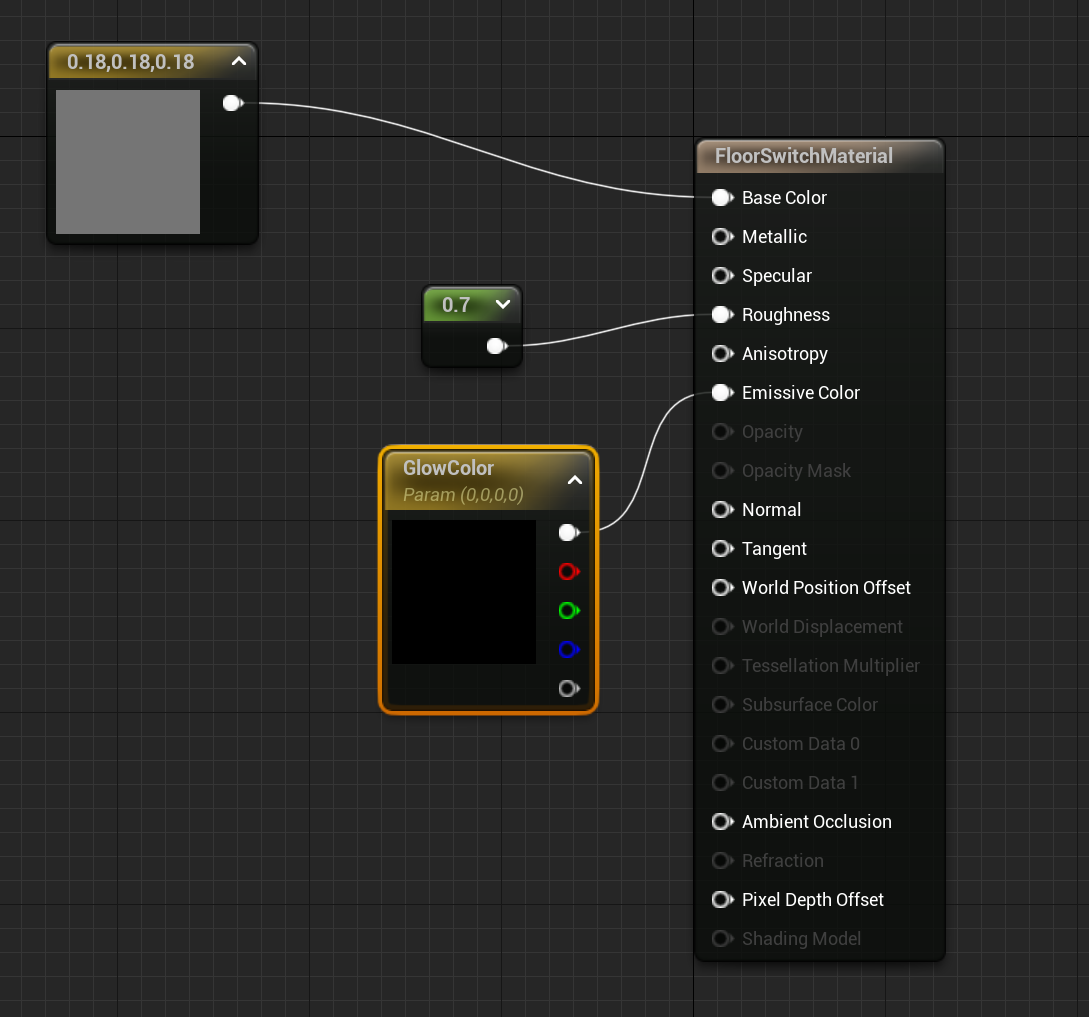
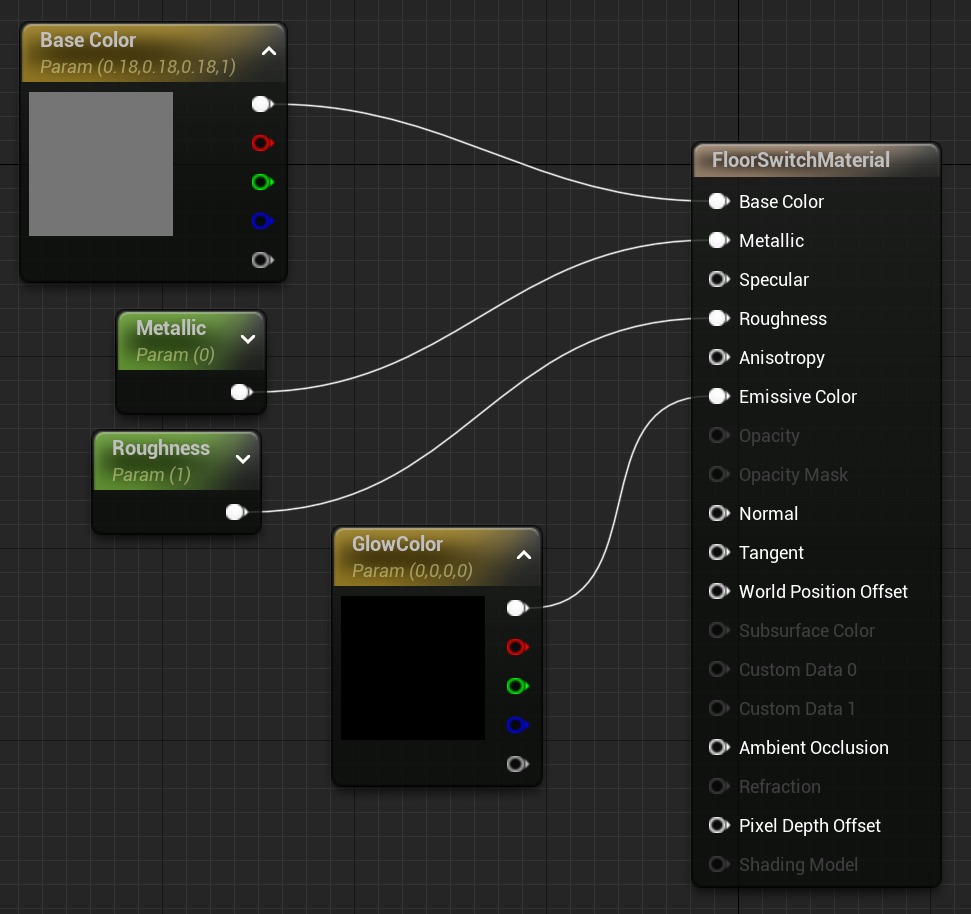
Done with Assignment 2

diff --git a/02-02.md b/02-02.md
@@ -37,7 +37,7 @@ Members:
 
 Functions:
 
-- `SetOutputActive` - (`UFUNCTION` that's `BlueprintCallable`) - is `virtual` and takes in a `bool` specifying the new value of `bIsOutputActive`. Since this is a blueprint function, you should use the special comment syntax 
+- `SetOutputActive` - (`UFUNCTION` that's `BlueprintCallable`) - is `virtual`, returns `void` and takes in a `bool` specifying a new value for `bIsOutputActive`. Since this is a blueprint function, you should use the special comment syntax 
 - `NativeReceiveInput` - (***not*** a `UFUNCTION`) a `virtual` function that returns `void`, and takes in two parameters: an `AActor` pointer (just a raw pointer) that specifies which actor is sending the incoming value, and a `bool` specifying the incoming value
 - `PuzzleReset` - (`UFUNCTION` that's `BlueprintCallable`) a `virtual` function that returns `void` and takes no parameters
 
@@ -45,13 +45,13 @@ Functions:
 
 This function should immediately return if the new value is the same as the old one.
 
-If it's a new value, you have to set `bIsOutputActive` to the new value. Next you need to try to resolve the `OutputActor` soft object pointer with `Get()`. If it works, you can use the `FindComponentByClass` template function to get a pointer to the `PuzzleComponent`, which would roughly look like this (assuming you resolved `OutputActor` to `OutActor`):
+If it's a new value, you have to set `bIsOutputActive` to the new value. Next you need to try to resolve the `OutputActor` soft object pointer with `Get()`. If it works, you can use the `FindComponentByClass` template function to get a pointer to the `PuzzleComponent` for the output actor, which would roughly look like this (assuming you resolved `OutputActor` to `OutActor`):
 
 ```c++
 UPuzzleComponent* PuzzleComp = OutActor->FindComponentByClass<UPuzzleComponent>();
 ```
 
-Remember it's possible PuzzleComp is null, in which case you can't do anything with it. But if it's not null, you'll want to call `NativeReceiveInput` on **_that_** puzzle component, passing in `GetOwner()` as the actor sending the input, and whatever the new value of `bIsOuputActive` is. This is how `this` PuzzleComponent notifies the other actor's PuzzleComponent about a new value.
+Remember it's possible `PuzzleComp` is `nullptr`, in which case you can't do anything with it. But if it's not null, you'll want to call `NativeReceiveInput` on **_the output actor's_** puzzle component, passing in `GetOwner()` as the actor sending the input, and whatever the new value of `bIsOuputActive` is. This is how this actor's PuzzleComponent notifies the other actor's PuzzleComponent about a new value.
 
 ### NativeReceiveInput Implementation
 
@@ -63,9 +63,9 @@ For now, this will simply call `SetOutputActive`, passing in `false`.
 
 ### Adding Some Delegates
 
-It turned out that to simplify the process by which actors can hook into their puzzle components, we need to use delegates. `BlueprintImplementableEvent` really isn't designed for this particular use case (it's better in a script for an is-a relationship, as opposed to our has-a situation). To solve this, we'll need to use delegates as discussed in lecture.
+To simplify the process by which actors can hook into their puzzle components, we need to use delegates. `BlueprintImplementableEvent` really isn't designed for this particular use case (it's better for an is-a relationship, as opposed to our has-a situation). To solve this, we'll need to use delegates as discussed in lecture.
 
-First, in the PuzzleComponent.h header, you have to add declarations of the two delegate types. This should go before the declaration of `UPuzzleComponent`, but after the includes:
+First, in the `PuzzleComponent.h` header, you have to add declarations of the two delegate types. This should go before the declaration of `UPuzzleComponent`, but after the includes:
 
 ```c++
 DECLARE_DYNAMIC_MULTICAST_DELEGATE_TwoParams(FPuzzleComponentOnReceiveInput, class AActor*, InputActor, bool, bValue);
@@ -87,7 +87,7 @@ Now let's broadcast to these delegates in the correct spots.
 In `NativeReceiveInput` add the following line to trigger the `OnReceiveInput` delegate:
 
 ```c++
-OnReceiveInput.Broadcast(InputActor, bValue);
+OnReceiveInput.Broadcast(InputActor, bIncomingValue);
 ```
 
 Similarly, at the end of `PuzzleReset` add a Broadcast to `OnPuzzleReset` (except that one has no parameters).
@@ -96,7 +96,7 @@ We'll see how to hook up to these in a blueprint a bit later.
 
 ## Setting Up a Puzzle Floor Switch
 
-Open up the Content Drawer, and make a new folder under Blueprints called Puzzles.
+Open up the Content Drawer, and make a new folder under "Blueprints" called "Puzzles."
 
 Create a new blueprint named `PuzzleFloorSwitch_BP` which inherits from `TriggerBoxPlayer_BP`.
 
@@ -106,7 +106,12 @@ Now we want to add a Static Mesh component. To add components, click the add but
 
 ![Add Static Mesh](images/02/addsm.png)
 
-In the StaticMesh details, Set the "Static Mesh" to `1M_Cube`, which is a 1mx1m cube. Set the Z-scale to `0.05`.
+In the StaticMesh details:
+
+* Set the "Static Mesh" to `SM_Cube`, which is a 1m x 1m x 1m cube
+* Set the z-scale to `0.05`.
+* Set the x and y location to `-50`
+* Change Materials>Element 0 to MI_Solid
 
 The switch should look like this in the blueprint viewport:
 
@@ -118,31 +123,20 @@ To fix this, in the blueprint details for `PuzzleFloorSwitch_BP` itself, uncheck
 
 To hide the Collision Component, go to its details in the blueprint and change "Hidden in Game" to true. To hide the sprite component, you need to go back to the root properties of `PuzzleFloorSwitch_BP` and set "Editor Billboard Scale" to 0. The billboard only shows up in editor builds, but we don't need it for the puzzle floor switch anymore as we now have a visible mesh.
 
-Now when you run the game, you should see the trigger in the level as you might expect. The shadows might not look quite correct, though. This is because we're using static lighting and so we need to build lighting for us to be able to see the correct shadows. Save your files first (just use Save All), and then exit the editor.
-
-Now in Visual Studio, change your configuration to "Development Editor". Then in the solution explorer under Programs, right click on the UnrealLightmass project and select "Build" (this will finish quickly as it's only a handful of files). Unreal Lightmass is what builds static lighting.
-
-{: .info }
-Many games (especially open world games) use fully-dynamic lighting in which case you'd never need to build lighting, and it's possible to globally disable Light Mass builds in that case. It's likely that many Unreal 5 games will ultimately go a fully dynamic lighting route, in which case lighting builds will be dead forever. I won't miss them.
-
-Once the build finishes, you can switch back to "DebugGame Editor." Now launch Unreal again.
-
-In the editor, do Build>Build All Levels. This will build the lighting as well as a few other things like navigation meshes. This will finish after a couple of seconds. Then do File>Save All.
-
-Your trigger in the level should now look something like this:
+Now when you run the game, you should see the trigger in the level as you might expect. It will look similar to this:
 
 ![Floor Switch in Level](images/02/trigger2.png)
 
-Now let's make it so the trigger glows when the player overlaps with it. In the Content Drawer go to Geometry>Meshes. Right click and duplicate `CubeMaterial`, calling the copy `FloorSwitchMaterial`. Open up your new material. Drag off the Emissive Color pin to create a VectorParameter called "GlowColor", keeping it the default value of all zeroes:
+Now let's make it so the trigger glows when the player overlaps with it. In the Content Drawer go to Content>LevelPrototyping>Materials. Right click and duplicate `M_Solid`, calling the copy `FloorSwitchMaterial`. Open up your new material. Drag off the Emissive Color pin to create a VectorParameter called "GlowColor", keeping it the default value of all zeroes:
 
-![Material for switch](images/02/switchmaterial.png)
+<img src="images/02/switchmaterial.png" alt="Material for switch" style="zoom:67%;" />
 
-{: .info }
+{: .note }
 Compared to the material we saw in the video for the character, this is a more explicit way of authoring materials where you can directly see your potential outputs. Emissive is what adds a glow effect, to signify that the material is "emitting" a color as opposed to the being a property of the surface, like base color or roughness.
 
-Now in PuzzleFloorSwitch_BP, change the Material assigned to the static mesh to your new material. Then override the OnPlayerBegin/EndOverlap functions so it sets it the GlowColor red when it overlaps, and back to black when it does not.
+Now in `PuzzleFloorSwitch_BP`, change the Material assigned to the static mesh to your new material. Then override the "On Player Begin Overlap" and "On Player End Overlap" Blueprint functions. You can drag the Static Mesh Component onto the blueprint graph and set the `GlowColor` vector parameter to red when it overlaps, and back to black when it does not. (If you don't remember how to do this, check the flipped classroom video).
 
-Running the game, if you walk on and off the trigger, you should see it glow like this:
+Running the game, if you walk on and off the trigger, you should see it glow like this (again, your graphics will look slightly different than in the GIF):
 
 ![Switch glowing red](images/02/glow.gif)
 
@@ -154,7 +148,7 @@ If you run the game, it will still look the same as you haven't hooked up the pu
 
 In the Puzzles folder, create a new BP called `PuzzleLight_BP` that inherits from PointLight. Set the properties of the Point Light Component so the "Light Color" is blue, and "Visible" is false (because by default, it's not activated yet so we don't want it to be visible).
 
-Next, add a PuzzleComponent to PuzzleLight_BP.
+Next, add a PuzzleComponent to `PuzzleLight_BP`.
 
 Now it's time to use that delegate we setup in code. In the blueprint component list, make sure Puzzle is selected. On the Details pane, look under events and you'll see a big green + button next to "On Receive Input":
 
@@ -176,7 +170,7 @@ Right now our switch is disabled when we step off of it, so it's like a pressure
 
 Also, we'd like to make switches be able to glow in different colors than just red.
 
-To do this, we can add two variables to PuzzleFloorSwitch_BP:
+To do this, we can add two variables to `PuzzleFloorSwitch_BP`:
 
 - A Boolean that says if the switch is disabled when step off of it (set to true by default)
 - A Linear Color that sets the color when you step on the switch (set to a Red color by default)
@@ -186,11 +180,19 @@ Make sure both of these variables are set to "Instance Editable," which is what 
 Now in the blueprint script:
 
 1. In Begin Overlap, change it so you use your color variable instead of the hardcoded one (you don't have to do anything to convert it, just dragging the Linear Color to the vector will automatically use a conversion node)
-2. In End Overlap, only reset the color and set the output to false your "disable when step off" bool is true
+2. In End Overlap, use a "Branch" node to only reset the color and set the output to false your "disable when step off" bool is true
 
 Now place a second PuzzleFloorSwitch in the level, in the vicinity of the first switch. In its properties, make the glow color green and set the "disable when step off" bool to false. Verify that this new switch works as you expect, and your old switch still works the same.
 
-Finally, move the "Top Down Template" TextRenderActor in the level to be near your switches and change the text to say "Original". We'll be using text render actors to help identify the switches in your video.
+Now you want to add a Text Render Actor to the level. To do this, click the add button and select "Place Actors Panel." From here, type text to find "Text Render Actor" and drag one into the level near your switches.
+
+Set the parameters are follows:
+
+* Set the text to "Original"
+* Set the scale uniformly to `3.0`
+* If your text is facing backwards, rotate it to face the correct direction (for me, I had to rotate -180 degrees on the z-axis)
+
+We'll be using these text render actors to help identify the switches in your video.
 
 ## Adding PuzzleAND
 
@@ -200,17 +202,17 @@ In the Puzzles folder, create a new blueprint that just inherits from Actor, and
 
 The way we're going to handle tracking the input actors is with an array of soft object Actor references that correspond to the actors which are required to trigger the puzzle.
 
-First, create a variable called RequiredPuzzles and make it an Actor Soft Object Reference and Instance Editable. Then, click the blue circle to the right of "Variable Type" and select "Array" from the dropdown:
+First, create a variable called `RequiredPuzzles` and make it an Actor Soft Object Reference and Instance Editable. Then, click the blue circle to the right of "Variable Type" and select "Array" from the dropdown:
 
 ![RequiredPuzzles array](images/02/requiredpuzzles.png)
 
-Then add an integer called InputCount which is initialized to zero.
+Then add an integer (just a single one, not an array) called `InputCount` which is initialized to zero. This doesn't need to be instance editable.
 
-Then, in the blueprint script, add the following logic:
+Then, in the Blueprint script for the OnReceiveInput event, add the following logic:
 
-1. When you receive input you first should confirm the actor is in the RequiredPuzzles array (there's a `Contains`) function
-2. If it is in the array, then your either increment or decrement InputCount based on whether value is true or false
-3. Finally, you set the output of the PuzzleComponent (for this AND node) to either true or false depending on the count -- if the count is equal to the `Length` of RequiredPuzzles, then the output should be true, otherwise false
+1. When you receive input you first should confirm the actor is in the `RequiredPuzzles` array (there's a `Contains`) function
+2. If it is in the array, then your either increment or decrement `InputCount` based on whether value is true or false
+3. Finally, you set the output of the PuzzleComponent (for this AND node) to either true or false depending on the count -- if the count is equal to the `Length` of RequiredPuzzles, then the output should be true, otherwise false. You want to use the BlueprintCallable `SetOutputActive` function for this.
 
 ## Testing PuzzleAND
 
@@ -223,7 +225,7 @@ Add another TextRenderActor that says "AND" near these two switches (you can jus
 
 Now place a PuzzleLight near these two switches, as well as a PuzzleAND.
 
-Hook it up so these two new switches send their output to the PuzzleAND, and the PuzzleAND sends its output to the light. Then in the PuzzleAND's required puzzles, add two elements that point to the two switches.
+Hook it up so these two new switches send their output to the PuzzleAND, and the PuzzleAND sends its output to the light. Then for the PuzzleAND instance's `RequiredPuzzles`, add two elements that point to the two switches.
 
 If everything is setup properly, you should get behavior that looks something like this:
 
@@ -251,7 +253,7 @@ For complex puzzles, it would be nice to be able to visualize the flow of inputs
 
    This first verifies that the `ENABLE_DRAW_DEBUG` is true. Next it uses a `DrawDebug` function to draw an arrow between the owner of the PuzzleComponent and the output actor.
 
-4. In TopDownHUD.cpp, add also add an include for `"DrawDebugHelpers.h"`
+4. In TopDownHUD.cpp, add includes for `"DrawDebugHelpers.h"` and `"PuzzleComponent.h"`
 
 5. At the end of `DrawHUD`, add the following:
 
@@ -264,7 +266,10 @@ For complex puzzles, it would be nice to be able to visualize the flow of inputs
    #endif
    ```
 
-   This will iterate over all the `UPuzzleComponent`s in the world and call `DebugDrawOuput` on each. This is not particularly efficient but it's okay for our debug purposes for now!
+
+
+{:.note}
+This code you added to TopDownHUD iterates over all the `UPuzzleComponent`s in the world and call `DebugDrawOuput` on each. This is not particularly efficient but it's okay for our debug purposes for now!
 
 If you did this properly, now when you run you should see arrows between your puzzle components, which helps more clearly visualize the flow. For example, this diagram clearly shows the state of this part of the puzzle:
 

diff --git a/02-03.md b/02-03.md
@@ -12,24 +12,38 @@ For this final part, there are no detailed instructions. Instead, you need to im
 
 # PuzzleOR
 
-This first one isn't too crazy. Make a PuzzleOR which activates as long as any of the inputs are true. This should generically work on any number of elements, not just necessarily two.
+This first one isn't too crazy. Make a `PuzzleOR_BP` which activates as long as any of the inputs are true. This should generically work on any number of elements, not just necessarily two.
 
 Then, place some switches and a light in your level (separate from the others) that demonstrates the PuzzleOR working. Add a TextRenderActor nearby that says "OR".
+
+*Hint*: The easiest way to do this is to duplicate `PuzzleAND_BP` and you just need to make a slight modification to its Blueprint logic.
 
 # SequencePuzzle
 
 This one is a bit more complicated.
 
-You need to make a puzzle that requires that you activate puzzle inputs in a specific order.
+You need to make a puzzle in `SequencePuzzle_BP` that requires that you activate puzzle inputs in a specific order.
 
-The SequencePuzzle needs to verify that all puzzle inputs become true in the expected order. If the inputs come out of order, SequencePuzzle should call `PuzzleReset` on each puzzle element that's part of the sequence. This will reset all the puzzle elements back to their false state. *Hint*: In Blueprint, you can use "Get Component by Class" to get a component of a specific type from an Actor.
+The SequencePuzzle needs to verify that all puzzle inputs become true in the expected order. If the inputs come out of order, SequencePuzzle should call `PuzzleReset` on each puzzle element that's part of the sequence. This will reset all the puzzle elements back to their false state.
+
+*Hint*: Think about how you'd do this with an array in C++. You can do the same thing with an array in Blueprint.
+
+*Hint 2*: In Blueprint, remember you have to resolve soft object references to the actual actor. Then, you can use "Get Component by Class" to get a component of a specific type from an Actor.
+
+{: .danger}
+If you try to compare a Actor Soft Object Reference to an Actor, it will crash the engine when trying to compile the Blueprint. You need to first resolve the Soft Object Reference.
 
 Only once the sequence is completed in the correct order, SequencePuzzle will set its output to true.
 
-To demonstrate this functionality, will add a puzzle with three switches that have GlowColors of red, white, in blue. These switches should not be disabled when the player steps off them. The correct order to press the switches is red, then white, then blue. Once the player completes the sequence properly, activate a light near the puzzle. *Hint*: To get the floor switches to reset their GlowColor if the SequencePuzzle calls `PuzzleReset`, you will have to add a handler to the "On Puzzle Reset" delegate in the floor switch blueprint.
+To demonstrate this functionality, add a puzzle with three switches that have GlowColors of red, white, in blue. These switches should not be disabled when the player steps off them. The correct order to press the switches is red, then white, then blue. Once the player completes the sequence properly, activate a light near the puzzle.
+
+*Hint*: To get the floor switches to reset their `GlowColor` if the SequencePuzzle calls `PuzzleReset`, you will have to add a handler to the "On Puzzle Reset" delegate in the floor switch blueprint.
 
 SequencePuzzle should generically work on any number of elements in a sequence. It should not be hard-coded to only work with a sequence of size three.
 
 Finally, add a TextRenderActor nearby that says "Sequence".
+
+{: .note}
+It's expected that if you step on the blue or white switch before stepping on the red one, no switch will light up as the puzzles will instantly reset.
 
 Once you've completed both PuzzleOr and SequencePuzzle, you're ready to [submit](02-04.html).

diff --git a/02-04.md b/02-04.md
@@ -10,7 +10,10 @@ nav_order: 4
 
 For this assignment, put your files in the `02` folder on your Google Drive. You need to submit the following:
 
-1. Your video - Make sure it still has the watermark. Show the WASD movement and the spacebar to jump. It should clearly demonstrate the functionality of the puzzle areas (along with the text actors) for Original, AND, OR and Sequence. Don't just immediately solve every puzzle. Make it clear that the switches that should reset when you step off do reset, and fail the sequence puzzle at least once. 
+1. One or more videos that demonstrate the following (make sure you still have the watermark)
+   1. Show the WASD movement and the spacebar to jump.
+   2. Clearly demonstrate the functionality of the puzzle areas (along with the text actors) for Original, AND, OR and Sequence. Don't just immediately solve every puzzle. Make it clear that the switches that should reset when you step off do reset, and fail the sequence puzzle at least once. 
+
 2. TopDownPlayerController.h
 3. TopDownPlayerController.cpp
 4. PuzzleComponent.h
@@ -30,5 +33,5 @@ To receive a grade of B, you must have the following:
 5. Your "OR" switch puzzle should work as specified in the instructions
 6. Your "Sequence" switch puzzle should work as specified in the instructions
 
-To get an A, you must satisfy the above as well as write quality code. Keep in mind that we will be looking for adherence to the [Unreal Coding Standard](https://docs.unrealengine.com/4.26/en-US/ProductionPipelines/DevelopmentSetup/CodingStandard/).
+To get an A, you must satisfy the above as well as write quality code. Keep in mind that we will be looking for adherence to the [Unreal Coding Standard](https://docs.unrealengine.com/5.0/en-US/epic-cplusplus-coding-standard-for-unreal-engine/).
 

diff --git a/01-04.md b/01-04.md
@@ -27,5 +27,5 @@ To receive a grade of B, you must have the following:
 1. DefaultGame.ini and DefaultEngine.ini are configured as per the assignment instructions (these automatically will get modified if you made the required changes), and you have a `.clang-format` file.
 2. Implemented the `TopDownHUD` class which overrides `DrawHUD` to draw your watermark.
 
-To get an A, you must satisfy the above as well as write quality code. Keep in mind that we will be looking for adherence to the [Unreal Coding Standard](https://docs.unrealengine.com/4.26/en-US/ProductionPipelines/DevelopmentSetup/CodingStandard/).
+To get an A, you must satisfy the above as well as write quality code. Keep in mind that we will be looking for adherence to the [Unreal Coding Standard](https://docs.unrealengine.com/5.0/en-US/epic-cplusplus-coding-standard-for-unreal-engine/).
 
